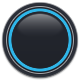
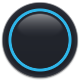
Menu: the round buttons' border keeps the theme's hue. It is darkened toward the theme's shadow colour instead of black, which made Bookshelf's an olive grey against its brown wood and ring; the white line inside it is drawn on light buttons only, as on Midnight's dark ones it showed as a stray grey

Changed region(s): [[0.075, 0.075, 0.925, 0.925]]

diff --git a/src/art/skinpaint.cpp b/src/art/skinpaint.cpp
@@ -228,13 +228,18 @@ struct Painter {
         // same all round it and a white line just inside.
         c.rounded_gradient(3, 3, 74, 74, 37, shade(card, 1.0f), shade(card, 0.86f));
         // Its edges fade over a pixel each side, so the line reads soft on
-        // a TV rather than cut out.
-        Rgba line = Mix(edge_strong, Rgba{0, 0, 0, 255}, 0.3f), fade = line;
+        // a TV rather than cut out. Darkened toward the theme's shadow, not
+        // black, so it keeps the theme's hue (black made Bookshelf's olive
+        // grey against its brown wood and ring).
+        const Rgba deep{shadow.r, shadow.g, shadow.b, 255};
+        Rgba line = Mix(edge_strong, deep, 0.35f), fade = line;
         fade.a = 110;
         c.ring(40, 40, 38, 1.0f, fade);
         c.ring(40, 40, 37, 2.0f, line);
         c.ring(40, 40, 35, 1.0f, fade);
-        c.ring(40, 40, 34, 1.0f, Rgba{255, 255, 255, 150});
+        // The white line inside it on a light button only: on a dark one
+        // (Midnight) it showed as a stray grey ring.
+        if (card.r + card.g + card.b > 3 * 128) c.ring(40, 40, 34, 1.0f, Rgba{255, 255, 255, 150});
         // The accent's ring, and the face inside it, light at the top.
         c.ring(40, 40, 31.5f, over ? 4.0f : 3.2f, accent);
         c.rounded_gradient(11.5f, 11.5f, 57, 57, 28.5f, shade(card, 1.04f), shade(card, 0.90f));
